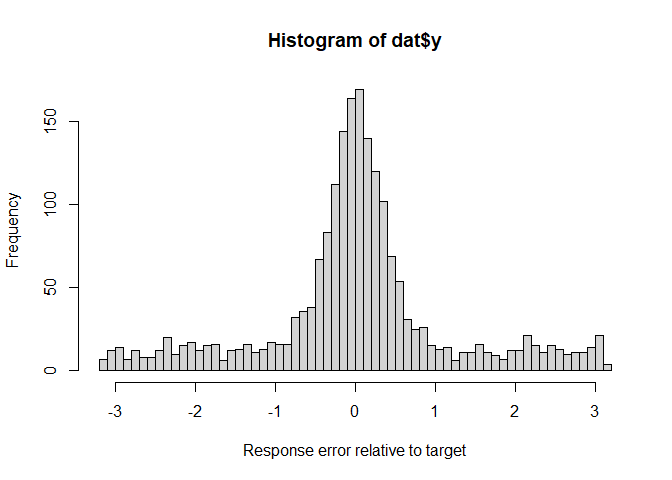
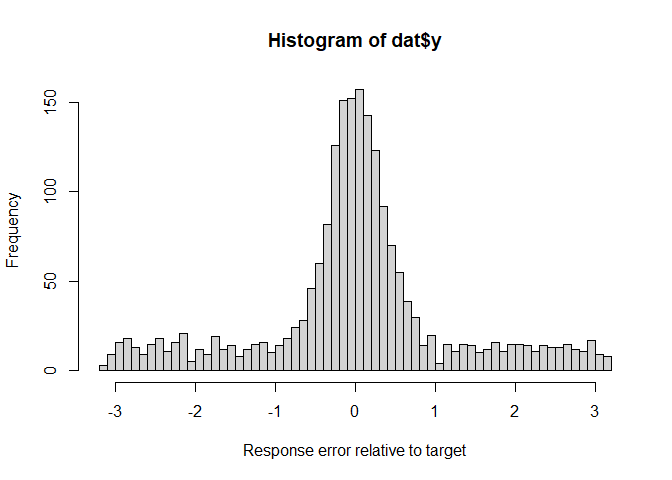
small fixes to README

diff --git a/README.md b/README.md
@@ -39,28 +39,15 @@ let’s generate a dataset with known parameters. We can use the function
 ``` r
 library(bmm)
 library(tidyverse)
-#> Warning: package 'ggplot2' was built under R version 4.3.2
-#> Warning: package 'dplyr' was built under R version 4.3.2
-#> Warning: package 'stringr' was built under R version 4.3.2
-#> ── Attaching core tidyverse packages ──────────────────────── tidyverse 2.0.0 ──
-#> ✔ dplyr     1.1.4     ✔ readr     2.1.4
-#> ✔ forcats   1.0.0     ✔ stringr   1.5.1
-#> ✔ ggplot2   3.4.4     ✔ tibble    3.2.1
-#> ✔ lubridate 1.9.2     ✔ tidyr     1.3.0
-#> ✔ purrr     1.0.1     
-#> ── Conflicts ────────────────────────────────────────── tidyverse_conflicts() ──
-#> ✖ dplyr::filter() masks stats::filter()
-#> ✖ dplyr::lag()    masks stats::lag()
-#> ℹ Use the conflicted package (<http://conflicted.r-lib.org/>) to force all conflicts to become errors
 dat <- gen_3p_data(N=2000, pmem=0.6, pnt=0.3, kappa=10, setsize=4, relative_resp=T)
 head(dat)
-#>               y    nt1_loc    nt2_loc    nt3_loc
-#> 1  0.3487698474  1.8985136  0.3796621 -0.8366318
-#> 2  0.1454692058 -0.1746312 -2.6965681  0.9784810
-#> 3 -0.0000697827 -2.2937998  0.7249212  2.4478609
-#> 4  0.0939472136 -2.0868535 -1.1523776 -1.3120891
-#> 5 -0.0266451029 -0.6624271 -2.6928092  0.2941023
-#> 6  0.3327737127  1.5681273  2.0013667  2.0061682
+#>             y   nt1_loc    nt2_loc     nt3_loc
+#> 1 -0.11182195 -2.055452 -1.7848563  0.47425980
+#> 2 -0.11556300  1.403156  0.5931497 -0.05000802
+#> 3 -0.15723376  2.950425 -0.8802946  0.49276455
+#> 4  0.08757818 -0.829254  1.4013302  0.44143983
+#> 5  0.24900620  2.042890  2.7460277  1.47863817
+#> 6 -0.80903848  1.759539 -1.9708203  2.76594867
 ```
 
 We have a dataset of 2000 observations of response error, of which 60%
@@ -120,13 +107,8 @@ you would pass to `brm`.
 fit <- fit_model(formula = ff,
                  data = dat,
                  model_type = "3p",
-                 lures = paste0('nt',1:3,'_loc'),
+                 non_targets = paste0('nt',1:3,'_loc'),
                  setsize=4,
                  parallel=T,
                  iter=500)
 ```
-
-## Example 2
-
-We can do the same but with a dataset that has a variable set size
-condition. First we generate
